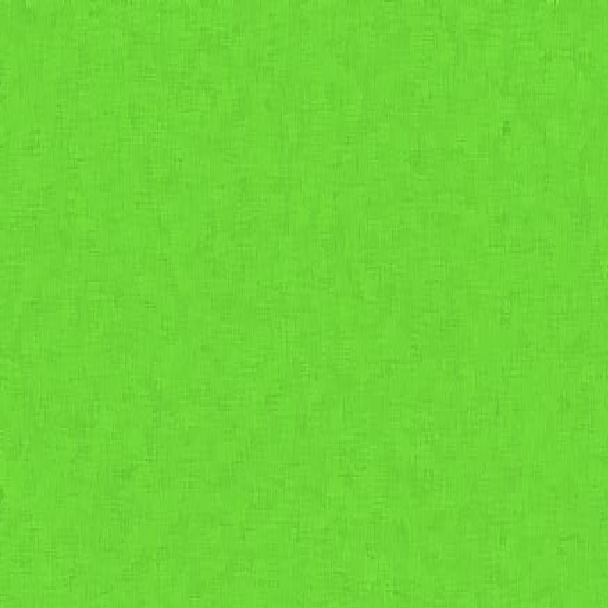
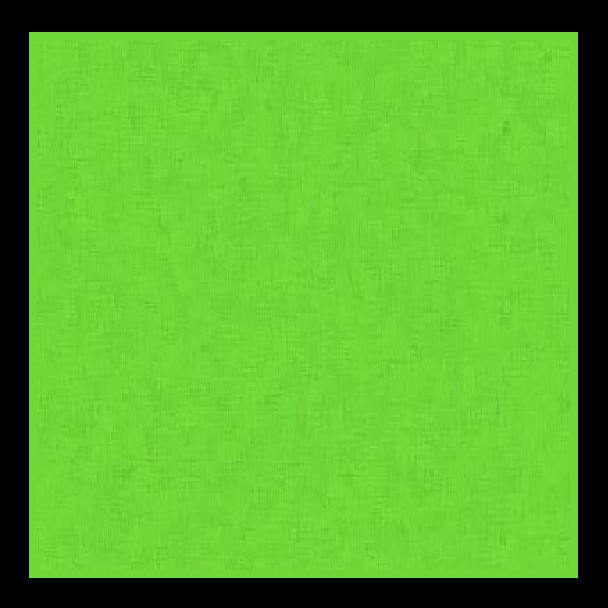
Background change and control function
Added black bars around the background to make walls. Added score number in the top right corner. Added key listener and function to control the snake.

Changed region(s): [[0.0, 0.0, 1.0, 1.0]]

diff --git a/snake.js b/snake.js
@@ -15,11 +15,27 @@ snake[0] = {
 
 let food = {
     x : Math.floor(Math.random()*17+1) * box,
-    y : Math.floor(Math.random()*15+3) * box
+    y : Math.floor(Math.random()*15+1) * box
 
 }
 
 let score = 0;
+
+document.addEventListener("keydown",direction);
+
+let d;
+
+function direction(event) {
+    if(event.keyCode == 37){
+        d = "LEFT";
+    } else if (event.keyCode == 38){
+        d = "UP";
+    } else if (event.keyCode == 39){
+        d = "RIGHT";
+    } else if (event.keyCode == 40){
+        d = "DOWN";
+    }   
+}
 
 function draw() {
     ctx.drawImage(ground,0,0);
@@ -32,6 +48,10 @@ function draw() {
         ctx.strokeRect(snake[i].x, snake[i].y, box, box);
     }
     ctx.drawImage(foodImg, food.x, food.y);
+
+    ctx.fillStyle = "white";
+    ctx.font = "45px Changa one";
+    ctx.fillText(score,box,box);
 }
 
 let game = setInterval(draw,100);
